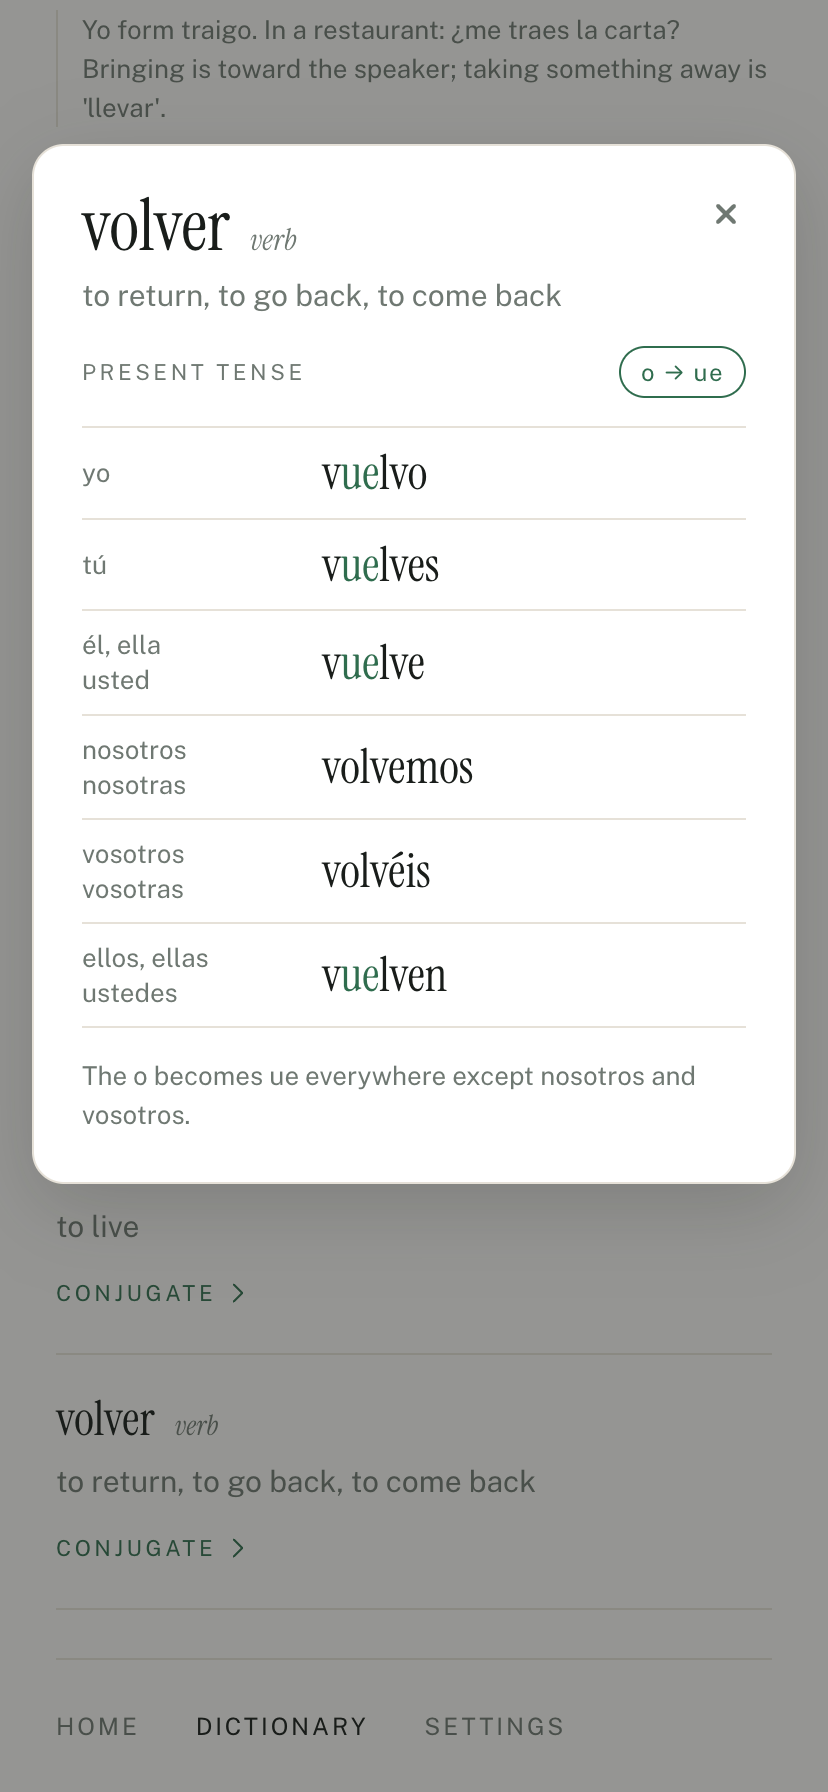
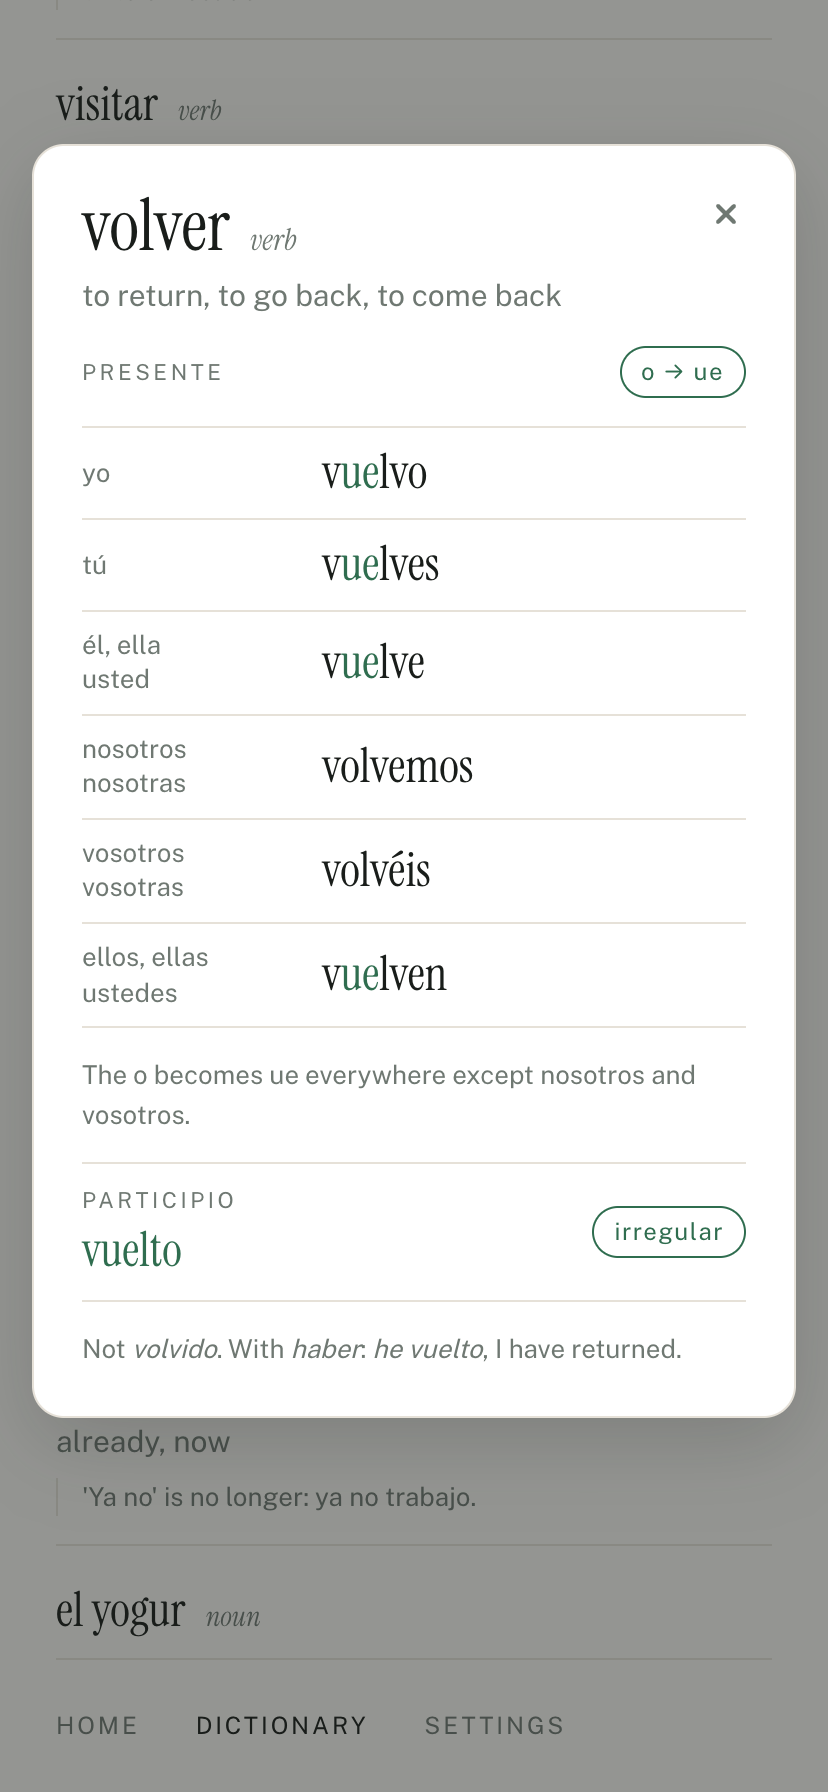
Pretérito perfecto: release note dated for the merge, updated Dictionary screenshot

diff --git a/README.md b/README.md
@@ -8,7 +8,7 @@ dictionary, spaced-repetition scheduling, and exercises from single words to gen
     <td><img src="docs/screenshots/home.png" width="200" alt="Home: General practice, Custom practice and a what's-new note"></td>
     <td><img src="docs/screenshots/custom.png" width="200" alt="Custom practice: exercise modes and categories chosen as pills"></td>
     <td><img src="docs/screenshots/exercise.png" width="200" alt="Fill in the Blank: a wrong pronoun, with the note abrigo is masculine, so lo"></td>
-    <td><img src="docs/screenshots/conjugation.png" width="200" alt="Dictionary: the present tense of volver, with the o to ue stem change marked"></td>
+    <td><img src="docs/screenshots/conjugation.png" width="200" alt="Dictionary: the present tense of volver, with the o to ue stem change marked, and its irregular participle vuelto"></td>
   </tr>
   <tr>
     <td align="center">Home</td>
